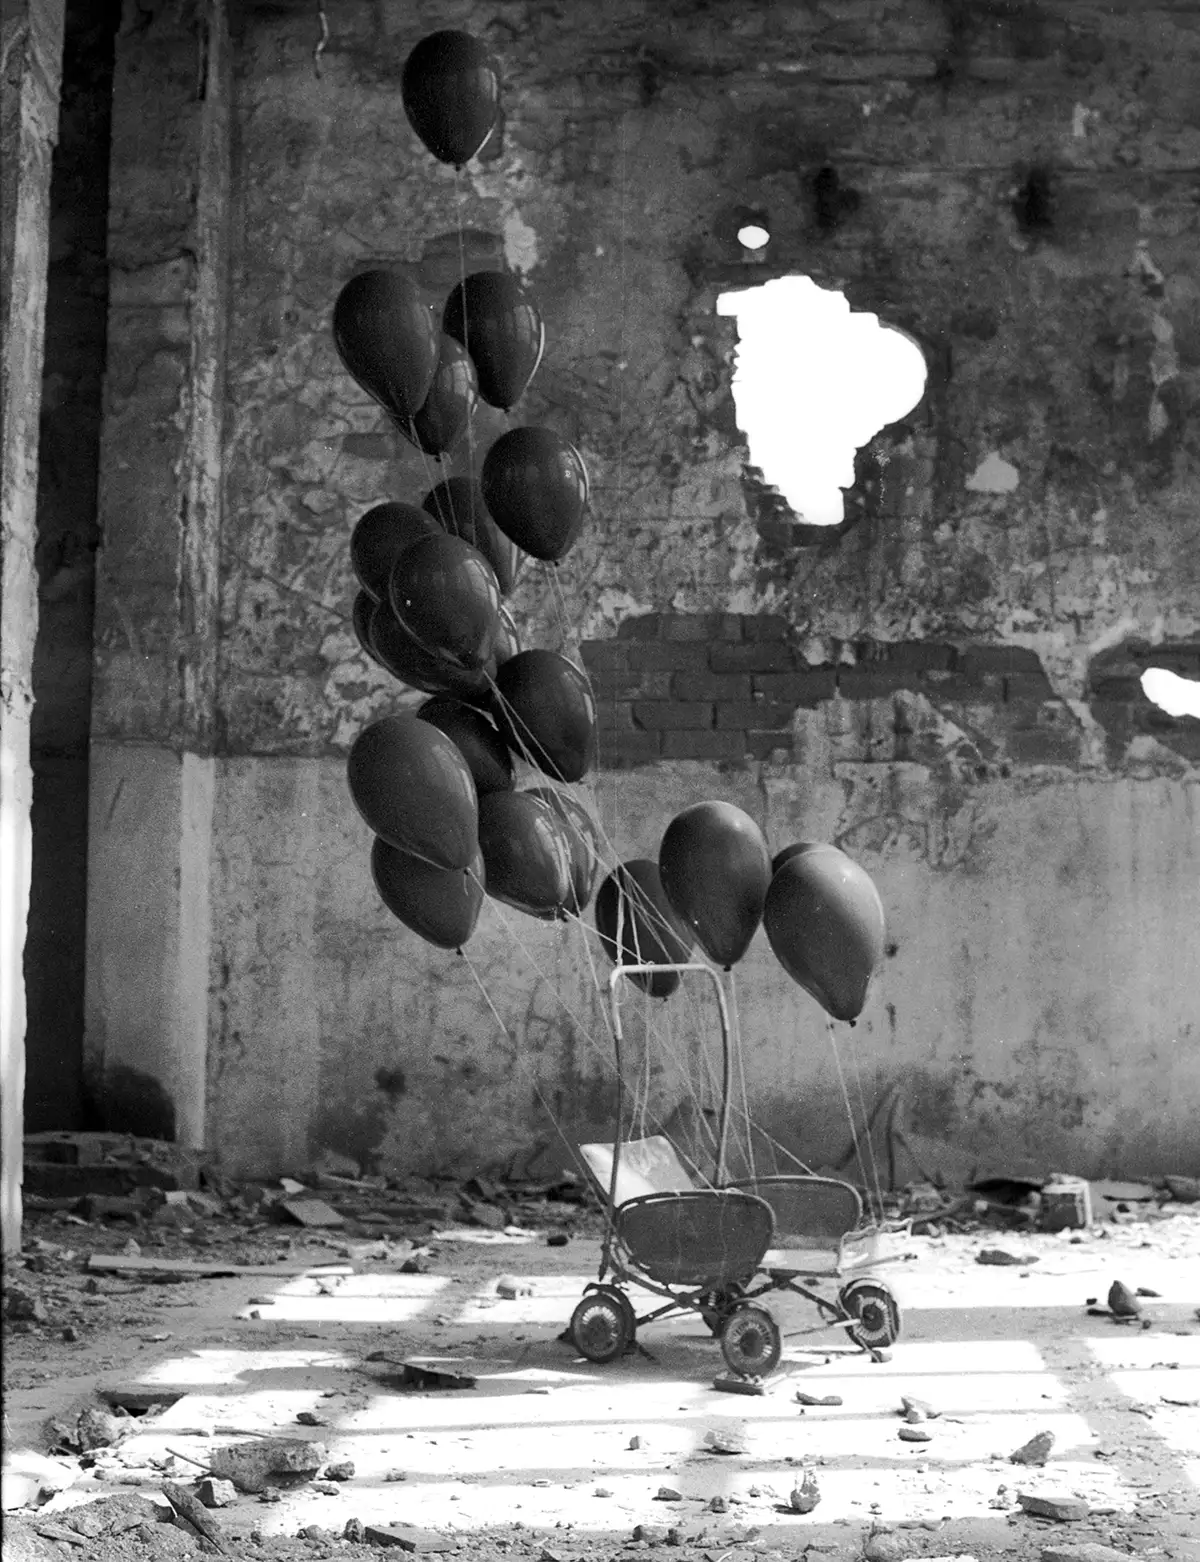
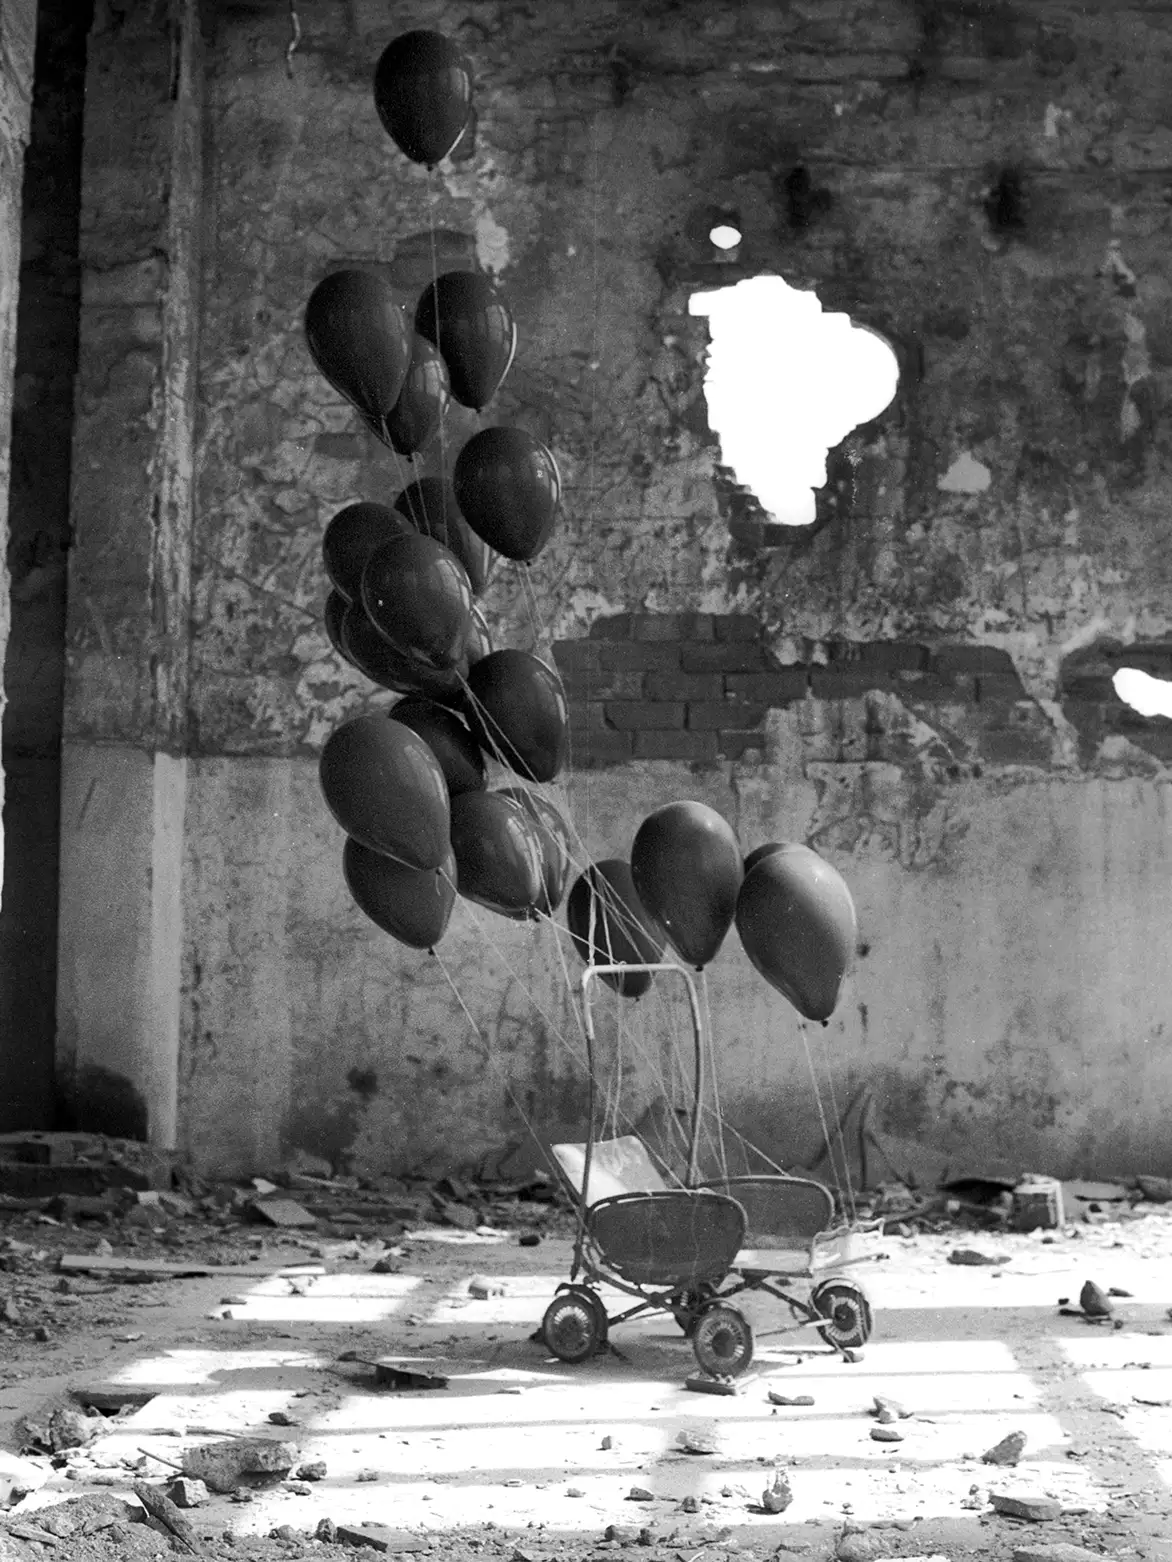
style adjustments

diff --git a/build/front-hero/render.php b/build/front-hero/render.php
@@ -2,15 +2,102 @@
 $desktop = FM_BLOCKS_ASSETS_URL . 'front-hero/desktop.webp';
 $mobile  = FM_BLOCKS_ASSETS_URL . 'front-hero/mobile.webp';
 ?>
-<section class="fm-front-hero" style="--fh-desktop:21/9;--fh-mobile:4/5;">
+<section class="fm-front-hero" style="--fh-desktop:6/4;--fh-mobile:4/6;">
   <picture class="fm-front-hero__media">
     <source media="(max-width: 767px)" srcset="<?php echo esc_url($mobile); ?>" sizes="100vw">
     <source media="(min-width: 768px)" srcset="<?php echo esc_url($desktop); ?>" sizes="100vw">
     <img src="<?php echo esc_url($desktop); ?>" alt="" loading="eager" fetchpriority="high" decoding="async">
   </picture>
+
+  <!-- <style>
+    .fm-front-hero__media {
+      display: block;
+      width: 100%;
+      aspect-ratio: var(--fh-desktop, 6/4);
+      overflow: hidden;
+    }
+    .fm-front-hero__media img {
+      width: 100%;
+      height: 100%;
+      object-fit: cover;
+      display: block;
+    }
+    @media (max-width: 767px) {
+      .fm-front-hero__media {
+        aspect-ratio: var(--fh-mobile, 4/5);
+      }
+    }
+  </style> -->
+
+  <!-- <style>
+    .fm-front-hero__media {
+      display: block;
+      width: 100%;
+      aspect-ratio: var(--fh-desktop, 6/4);
+      overflow: hidden;
+    }
+    .fm-front-hero__media img {
+      width: 100%;
+      height: 100%;
+      object-fit: cover;
+      display: block;
+    }
+    @media (min-width: 768px) {
+      .fm-front-hero__media {
+        width: 100vw;
+        margin-left: calc(50% - 50vw);
+      }
+    }
+    @media (max-width: 767px) {
+      .fm-front-hero__media {
+        aspect-ratio: var(--fh-mobile, 4/5);
+      }
+    }
+  </style> -->
+
+  <!-- <style>
+    .fm-front-hero__media {
+      display: block;
+      width: 100vw;
+      margin-left: calc(50% - 50vw);
+      overflow: hidden;
+    }
+    .fm-front-hero__media {
+      aspect-ratio: var(--fh-desktop, 6/4);
+    }
+    .fm-front-hero__media img {
+      width: 100%;
+      height: 100%;
+      object-fit: cover;
+      display: block;
+    }
+    @media (max-width: 767px) {
+      .fm-front-hero__media {
+        aspect-ratio: var(--fh-mobile, 4/5);
+      }
+    }
+  </style> -->
+
   <style>
-    .fm-front-hero__media{display:block;width:100%;aspect-ratio:var(--fh-desktop,21/9);overflow:hidden}
-    .fm-front-hero__media img{width:100%;height:100%;object-fit:cover;display:block}
-    @media (max-width:767px){.fm-front-hero__media{aspect-ratio:var(--fh-mobile,4/5)}}
+    .fm-front-hero__media {
+      display: block;
+      width: 100%;
+      aspect-ratio: var(--fh-desktop, 6/4);
+      overflow: hidden;
+    }
+    .fm-front-hero__media img {
+      width: 100%;
+      height: 100%;
+      object-fit: cover;
+      display: block;
+    }
+    @media (max-width: 767px) {
+      .fm-front-hero__media {
+        width: 100vw;
+        margin-left: calc(50% - 50vw);
+        aspect-ratio: var(--fh-mobile, 4/5);
+      }
+    }
   </style>
+</section>                                             
 </section>

diff --git a/src/front-hero/render.php b/src/front-hero/render.php
@@ -2,15 +2,102 @@
 $desktop = FM_BLOCKS_ASSETS_URL . 'front-hero/desktop.webp';
 $mobile  = FM_BLOCKS_ASSETS_URL . 'front-hero/mobile.webp';
 ?>
-<section class="fm-front-hero" style="--fh-desktop:21/9;--fh-mobile:4/5;">
+<section class="fm-front-hero" style="--fh-desktop:6/4;--fh-mobile:4/6;">
   <picture class="fm-front-hero__media">
     <source media="(max-width: 767px)" srcset="<?php echo esc_url($mobile); ?>" sizes="100vw">
     <source media="(min-width: 768px)" srcset="<?php echo esc_url($desktop); ?>" sizes="100vw">
     <img src="<?php echo esc_url($desktop); ?>" alt="" loading="eager" fetchpriority="high" decoding="async">
   </picture>
+
+  <!-- <style>
+    .fm-front-hero__media {
+      display: block;
+      width: 100%;
+      aspect-ratio: var(--fh-desktop, 6/4);
+      overflow: hidden;
+    }
+    .fm-front-hero__media img {
+      width: 100%;
+      height: 100%;
+      object-fit: cover;
+      display: block;
+    }
+    @media (max-width: 767px) {
+      .fm-front-hero__media {
+        aspect-ratio: var(--fh-mobile, 4/5);
+      }
+    }
+  </style> -->
+
+  <!-- <style>
+    .fm-front-hero__media {
+      display: block;
+      width: 100%;
+      aspect-ratio: var(--fh-desktop, 6/4);
+      overflow: hidden;
+    }
+    .fm-front-hero__media img {
+      width: 100%;
+      height: 100%;
+      object-fit: cover;
+      display: block;
+    }
+    @media (min-width: 768px) {
+      .fm-front-hero__media {
+        width: 100vw;
+        margin-left: calc(50% - 50vw);
+      }
+    }
+    @media (max-width: 767px) {
+      .fm-front-hero__media {
+        aspect-ratio: var(--fh-mobile, 4/5);
+      }
+    }
+  </style> -->
+
+  <!-- <style>
+    .fm-front-hero__media {
+      display: block;
+      width: 100vw;
+      margin-left: calc(50% - 50vw);
+      overflow: hidden;
+    }
+    .fm-front-hero__media {
+      aspect-ratio: var(--fh-desktop, 6/4);
+    }
+    .fm-front-hero__media img {
+      width: 100%;
+      height: 100%;
+      object-fit: cover;
+      display: block;
+    }
+    @media (max-width: 767px) {
+      .fm-front-hero__media {
+        aspect-ratio: var(--fh-mobile, 4/5);
+      }
+    }
+  </style> -->
+
   <style>
-    .fm-front-hero__media{display:block;width:100%;aspect-ratio:var(--fh-desktop,21/9);overflow:hidden}
-    .fm-front-hero__media img{width:100%;height:100%;object-fit:cover;display:block}
-    @media (max-width:767px){.fm-front-hero__media{aspect-ratio:var(--fh-mobile,4/5)}}
+    .fm-front-hero__media {
+      display: block;
+      width: 100%;
+      aspect-ratio: var(--fh-desktop, 6/4);
+      overflow: hidden;
+    }
+    .fm-front-hero__media img {
+      width: 100%;
+      height: 100%;
+      object-fit: cover;
+      display: block;
+    }
+    @media (max-width: 767px) {
+      .fm-front-hero__media {
+        width: 100vw;
+        margin-left: calc(50% - 50vw);
+        aspect-ratio: var(--fh-mobile, 4/5);
+      }
+    }
   </style>
+</section>                                             
 </section>
